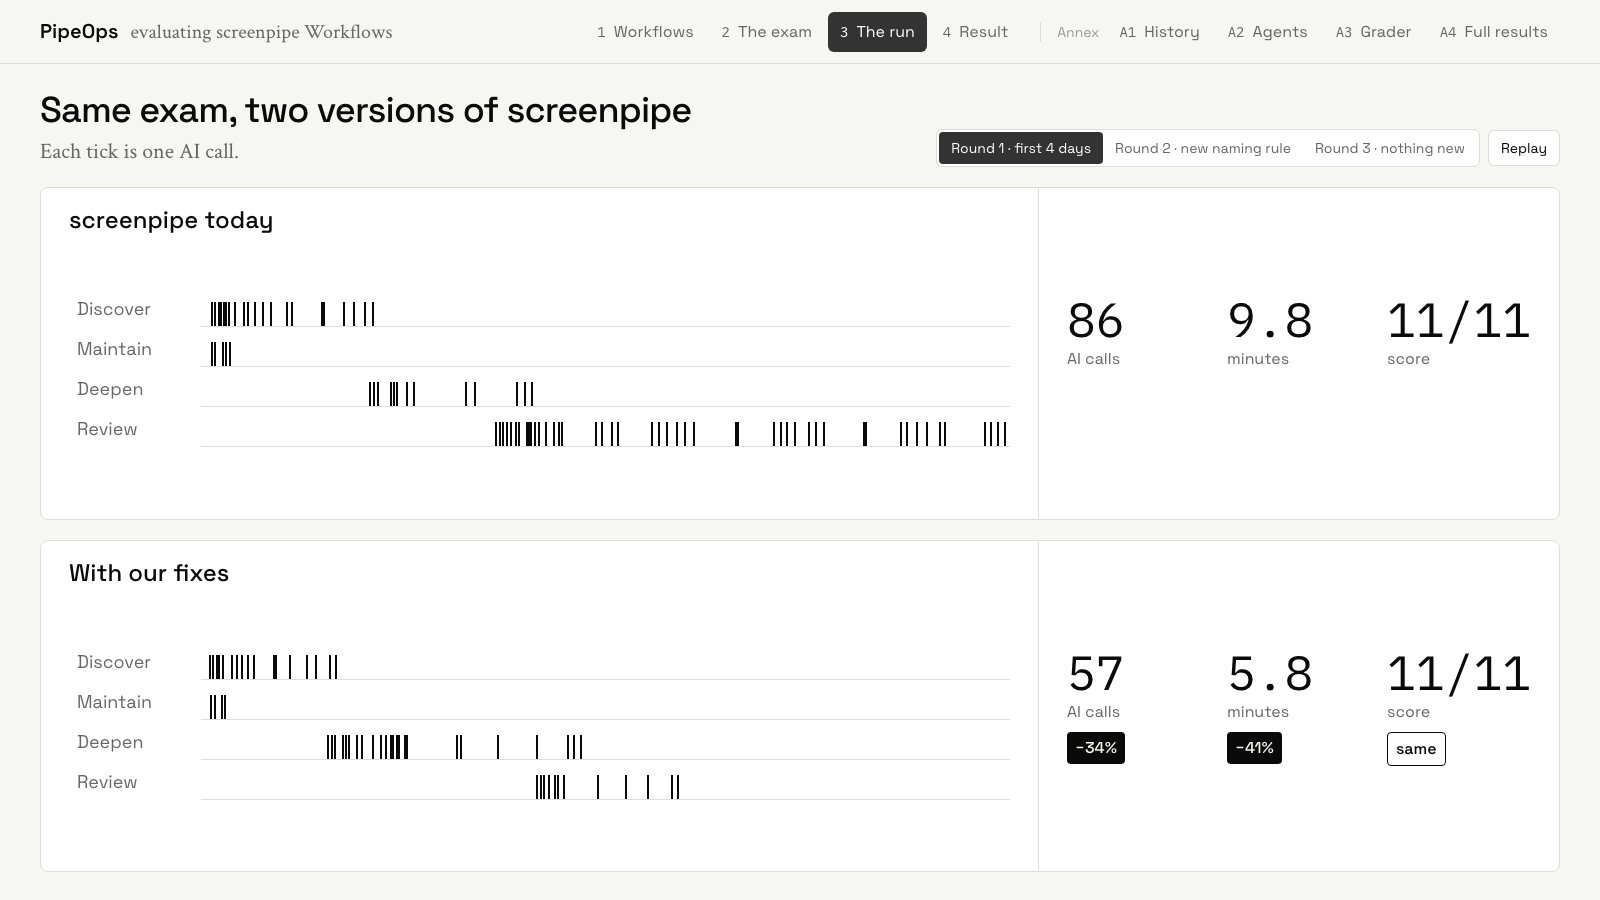
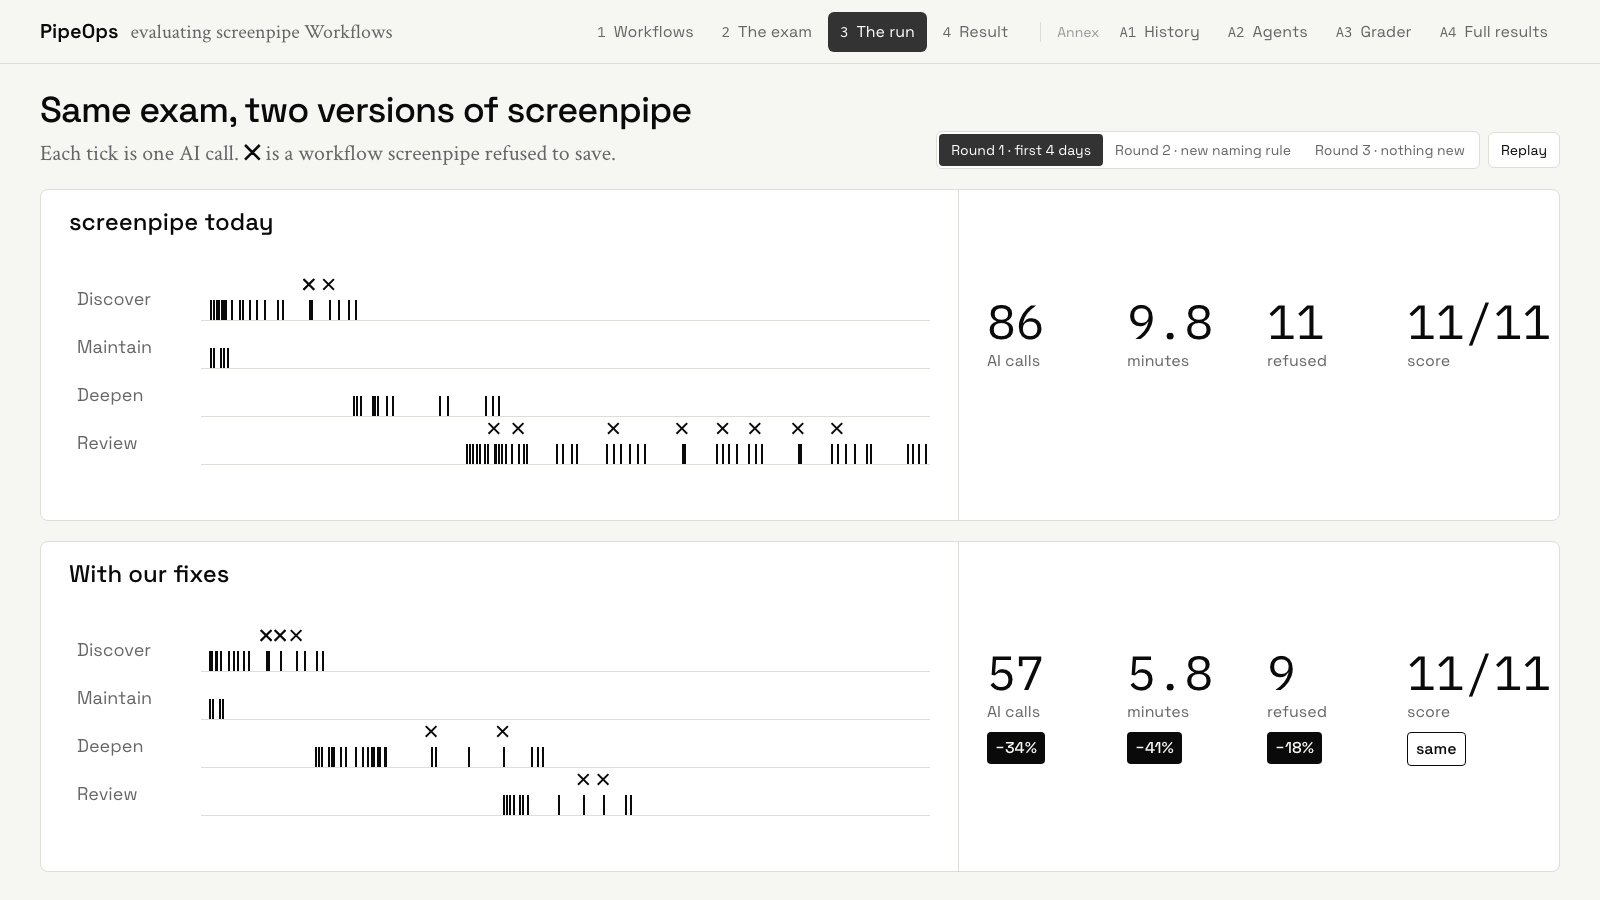
PipeOps slide 3: refused saves shown as crosses, with a refused count

diff --git a/pipeops/src/screens/Race.tsx b/pipeops/src/screens/Race.tsx
@@ -32,7 +32,7 @@ export default function Race() {
   return (
     <Screen
       title="Same exam, two versions of screenpipe"
-      lede="Each tick is one AI call."
+      lede={<>Each tick is one AI call. <span className="font-sans font-semibold text-ink">✕</span> is a workflow screenpipe refused to save.</>}
       actions={
         <>
           <Choice value={phase} onChange={(p) => { setPlaying(false); setNow(Infinity); setPhase(p); }} options={[1, 2, 3].map((p) => ({ value: p, label: PHASE_NAME[p] }))} />
@@ -52,13 +52,14 @@ function Lane({ side, p, span, now, vs }: { side: Side; p: Phase; span: number; 
   const live = Number.isFinite(now);
   const done = !live;
   const calls = p.stream.filter((e) => e.kind === 'request' && e.t <= now).length;
+  const refused = p.stream.filter((e) => e.kind === 'workflows' && !e.ok && e.t <= now).length;
   const secs = live ? Math.min(now, p.seconds) : p.seconds;
   const working = (a: string) => live && p.stream.some((e) => e.agent === a && e.kind === 'request' && e.t <= now && now - e.t < ACTIVE_WINDOW);
   const idle = p.requests === 0;
   const less = (a: number, z: number) => (a > 0 ? `−${Math.round(((a - z) / a) * 100)}%` : '');
 
   return (
-    <Card className={`grid min-h-0 flex-1 grid-cols-[1fr_520px] ${vs ? 'border-ink' : ''}`}>
+    <Card className={`grid min-h-0 flex-1 grid-cols-[1fr_600px] ${vs ? 'border-ink' : ''}`}>
       <div className="flex min-w-0 flex-col border-r border-line px-7 py-4">
         <div className="font-sans text-2xl font-medium">{SIDE_NAME[side]}</div>
         {idle ? (
@@ -70,9 +71,12 @@ function Lane({ side, p, span, now, vs }: { side: Side; p: Phase; span: number; 
                 <span className={`rounded-sm px-2 py-0.5 font-sans text-lg transition-colors ${working(a) ? 'bg-phosphor text-ink' : 'text-muted'}`}>
                   {a[0].toUpperCase() + a.slice(1)}
                 </span>
-                <div className="relative h-9 border-b border-line">
+                <div className="relative h-11 border-b border-line">
                   {p.stream.filter((e) => e.agent === a && e.kind === 'request' && e.t <= now).map((e, i) => (
-                    <span key={i} className="absolute bottom-0 h-6 w-[2px] bg-ink" style={{ left: `${(e.t / span) * 100}%` }} />
+                    <span key={i} className="absolute bottom-0 h-5 w-[2px] bg-ink" style={{ left: `${(e.t / span) * 100}%` }} />
+                  ))}
+                  {p.stream.filter((e) => e.agent === a && e.kind === 'workflows' && !e.ok && e.t <= now).map((e, i) => (
+                    <span key={`x${i}`} className="absolute top-0 -translate-x-1/2 font-sans text-[16px] font-semibold leading-none text-ink" style={{ left: `${(e.t / span) * 100}%` }}>✕</span>
                   ))}
                   {live && <span className="absolute -top-1 bottom-0 w-px bg-ink" style={{ left: `${(now / span) * 100}%` }} />}
                 </div>
@@ -81,9 +85,10 @@ function Lane({ side, p, span, now, vs }: { side: Side; p: Phase; span: number; 
           </div>
         )}
       </div>
-      <div className="grid grid-cols-3 items-center gap-4 px-7">
+      <div className="grid grid-cols-4 items-center gap-4 px-7">
         <Big label="AI calls" value={String(calls)} badge={vs && done && p.requests < vs.requests ? (p.requests === 0 ? `${vs.requests} → 0` : less(vs.requests, p.requests)) : undefined} strong={!!vs && done && p.requests < vs.requests} />
         <Big label="minutes" value={(secs / 60).toFixed(1)} badge={vs && done && p.seconds < vs.seconds ? less(vs.seconds, p.seconds) : undefined} strong={!!vs && done && p.seconds < vs.seconds} />
+        <Big label="refused" value={String(refused)} badge={vs && done && p.rejected < vs.rejected ? (p.rejected === 0 ? `${vs.rejected} → 0` : less(vs.rejected, p.rejected)) : undefined} strong={!!vs && done && p.rejected < vs.rejected} />
         <Big label="score" value={`${p.passed}/${p.scored}`} badge={vs && done ? (p.passed === vs.passed ? 'same' : p.passed > vs.passed ? 'better' : 'lower') : undefined} />
       </div>
     </Card>
